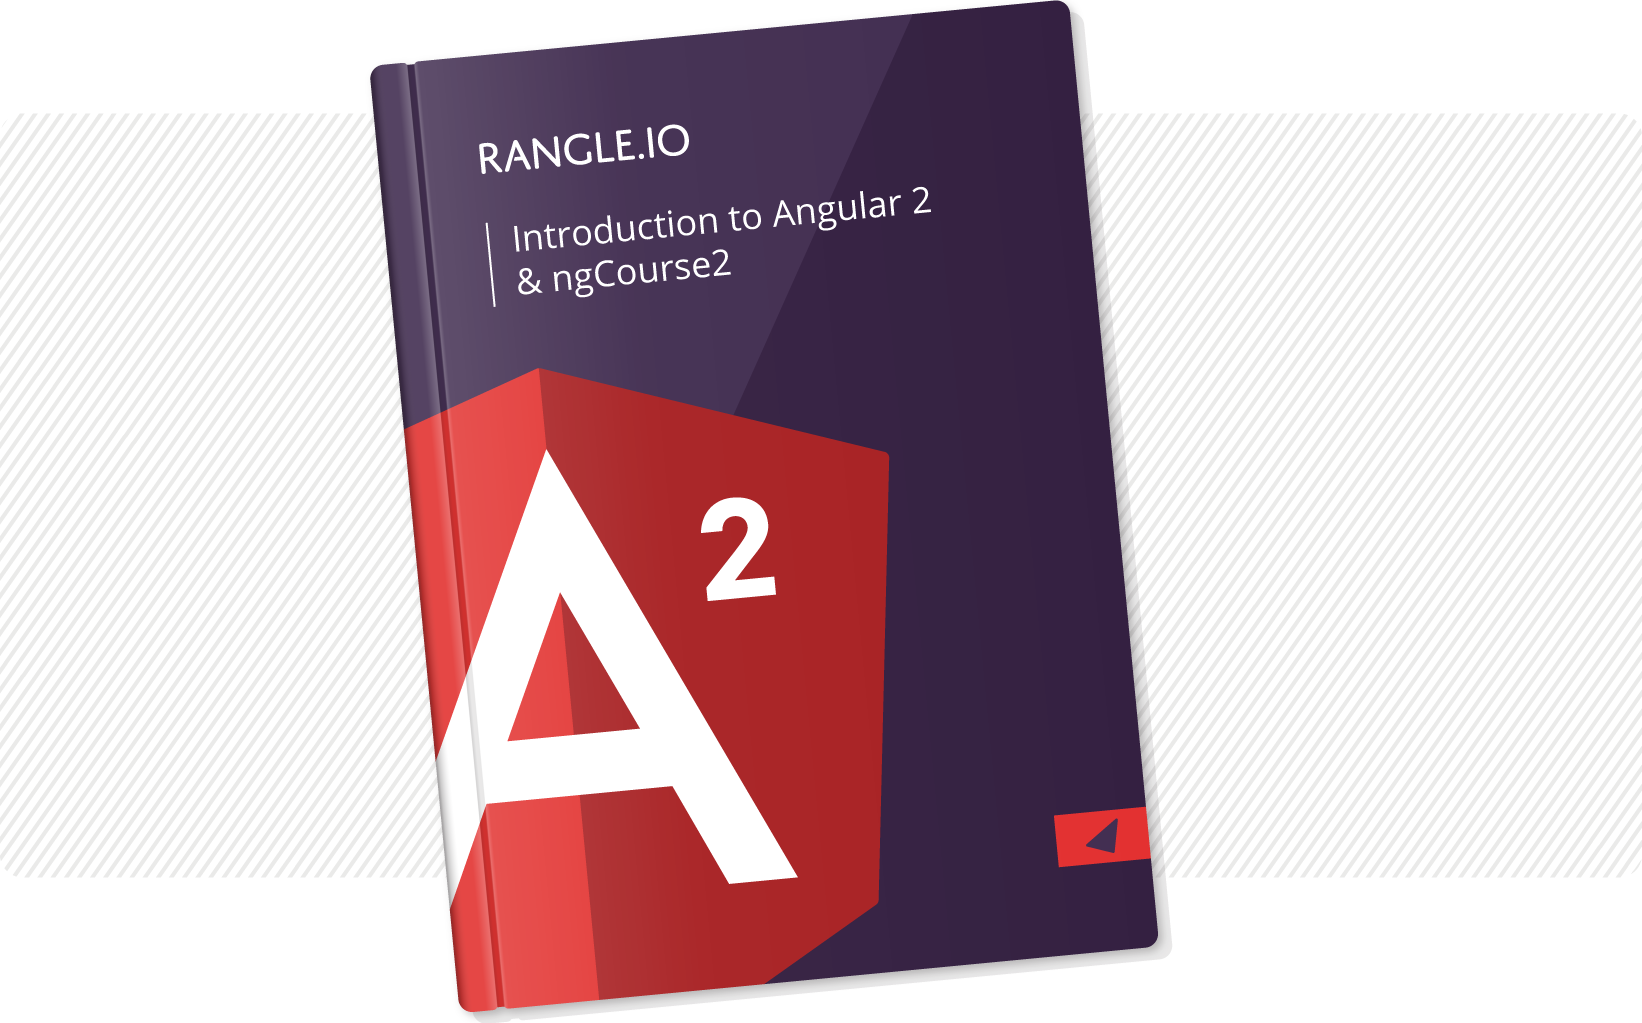
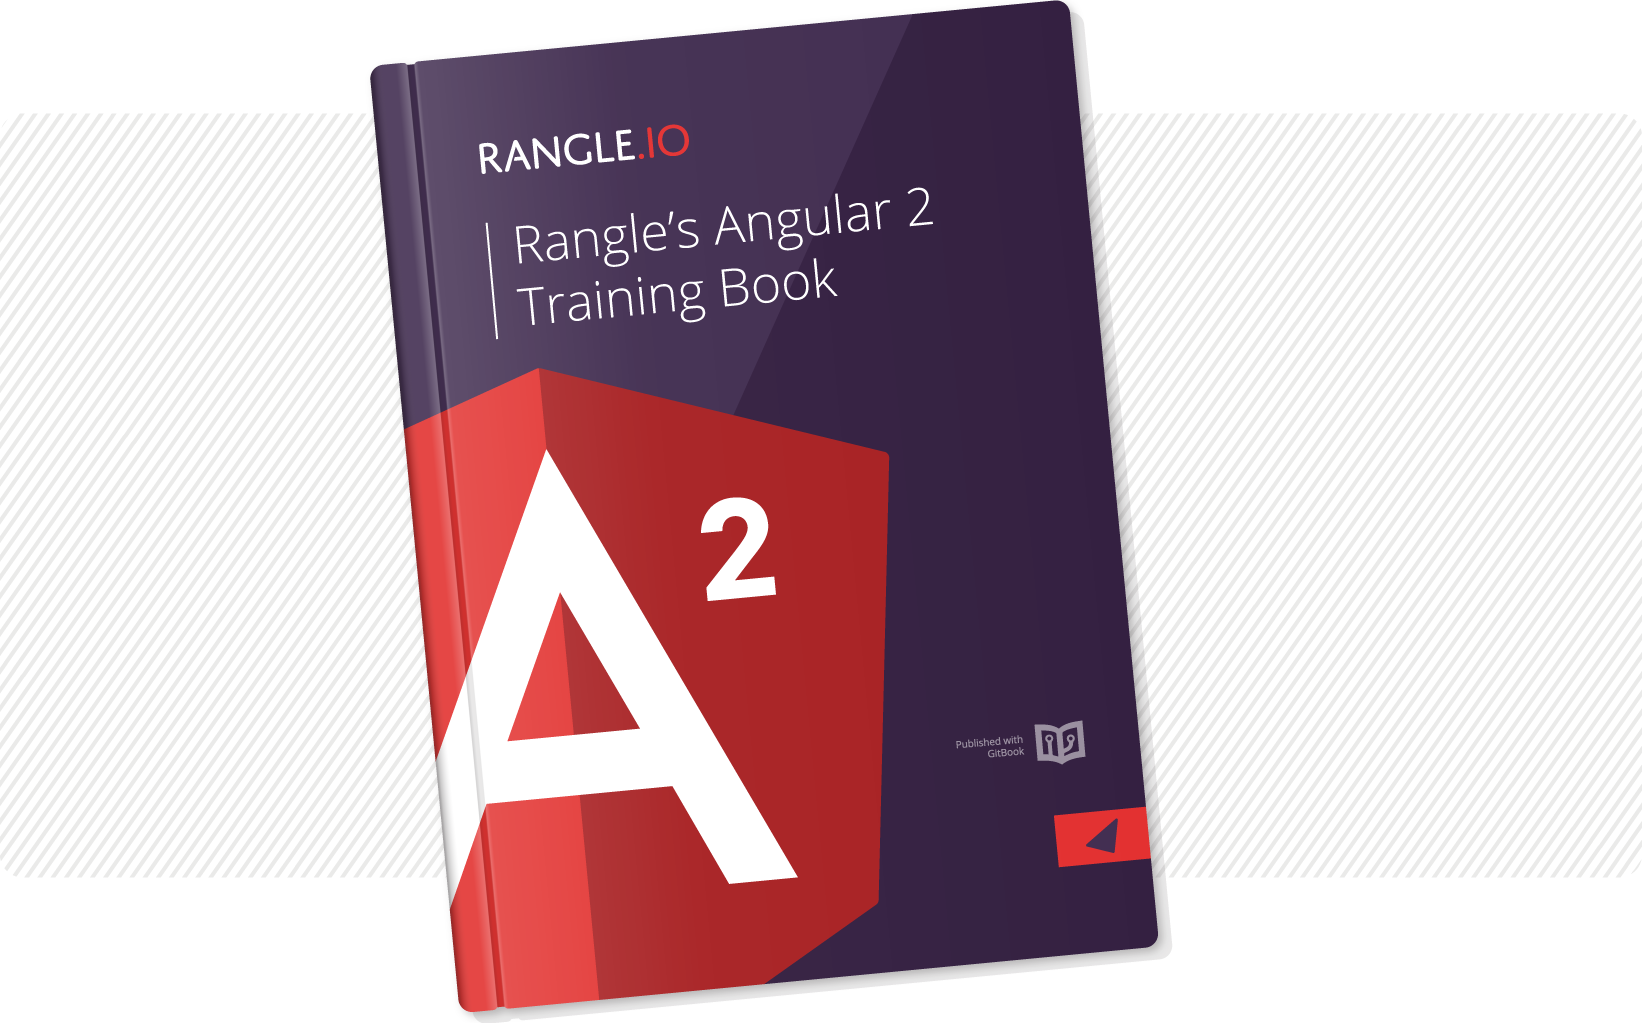
Updated the HTML version's cover image and title.

Changed region(s): [[0.3106, 0.1818, 0.5901, 0.303], [0.5901, 0.697, 0.6833, 0.7576], [0.3727, 0.1212, 0.4348, 0.1515]]

diff --git a/intro.md b/intro.md
@@ -1,6 +1,6 @@
-# Introduction to Angular 2 and ngCourse2
+# Rangle's Angular 2 Training Book
 
-![ngcourse2](./img/cover.png "Rangle.io's Angular GitBook")
+![ngcourse2](./img/cover.png "Rangle's Angular 2 Training Book")
 
 AngularJS is the leading open source JavaScript application framework backed by Google. The "1.x" version of AngularJS has been widely used. The new "Angular 2" version of the framework is currently available in release candidate. This course (ngCourse2) provides an introduction to AngularJS – using Angular 2 – based on our experience at Rangle.io.
 
